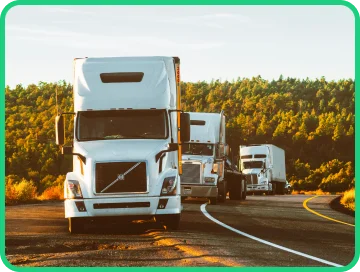
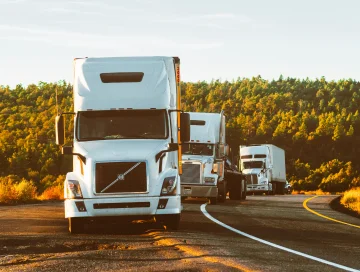
fix

Changed region(s): [[0.0, 0.0, 1.0, 1.0]]

diff --git a/src/features.html b/src/features.html
@@ -95,7 +95,7 @@
             </div>
             <div class="card">
               <div class="card_img">
-                <img src="./image/feature_page/card_img_1.webp" alt="image" />
+                <img src="./image/feature_page/card_img_2.webp" alt="image" />
               </div>
               <h3 class="card_title">Real-Time Tracking</h3>
               <p class="card_text">
@@ -106,7 +106,7 @@
             </div>
             <div class="card">
               <div class="card_img">
-                <img src="./image/feature_page/card_img_1.webp" alt="image" />
+                <img src="./image/feature_page/card_img_3.webp" alt="image" />
               </div>
               <h3 class="card_title">Automated Notifications</h3>
               <p class="card_text">

diff --git a/src/styles/layout/_common.scss b/src/styles/layout/_common.scss
@@ -1866,6 +1866,7 @@ html {
     @include adaptive-value('margin-bottom', 35, 25, 1);
     border: 5px solid $green;
     border-radius: 20px;
+    overflow: hidden;
 
     img {
       width: 100%;
